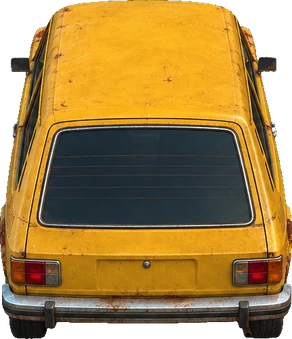
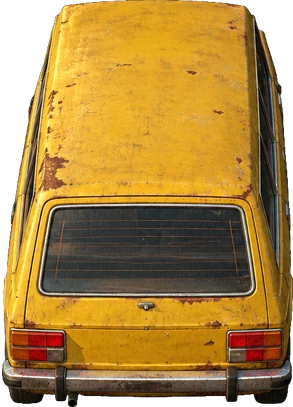
Carros redesenhados no ângulo do jogo
Fusca, Brasília e Uno da avenida ganham frente e traseira novas, em
projeção paralela, com o teto subindo junto da faixa inclinada (antes
eram vistas chapadas e pareciam andar de lado). Fusca, Brasília, Uno e
táxi parados nas ruas transversais ganham perfil novo com o teto à
mostra e a traseira na ponta da direita; ficam todos virados para a
esquerda, como numa rua de mão única.

Claude-Session: https://claude.ai/code/session_01V3nfXgj3At2PPcBsXwjYXU

diff --git a/prototype/src/arte_cenario.js b/prototype/src/arte_cenario.js
@@ -7,9 +7,11 @@ export const ART_K = Math.sin((55 * Math.PI) / 180);
 
 // w, d, h: largura, fundo e altura (m). padX: folga dos lados; top: quanto o quadro sobe acima da origem;
 // bot: quanto desce abaixo dela (sombra). files: variações (arquivo <tipo>_<variação>.webp).
-// espelha: metade dos objetos aparece virada para o outro lado (carro estacionado nos dois sentidos).
+// espelha: metade dos objetos aparece virada para o outro lado.
 export const ART = {
-  carro: { w: 4.0, d: 1.8, h: 1.45, padX: 0.7, top: 3.2, bot: 0.45, files: ['fusca', 'brasilia', 'uno', 'taxi'], espelha: true },
+  // carros parados nas ruas transversais: todos virados para a esquerda (rua de mão única), desenhados no
+  // ângulo do jogo, com a traseira aparecendo na ponta da direita
+  carro: { w: 4.0, d: 1.8, h: 1.45, padX: 0.7, top: 3.2, bot: 0.45, files: ['fusca', 'brasilia', 'uno', 'taxi'] },
   onibus: { w: 8.8, d: 2.5, h: 3.0, padX: 0.6, top: 5.4, bot: 0.5, files: ['a'], espelha: true },
   banca: { w: 2.4, d: 1.6, h: 2.3, padX: 0.5, top: 3.9, bot: 0.4, files: ['a'] },
   milho: { w: 1.4, d: 0.8, h: 1.1, padX: 0.8, top: 2.9, bot: 0.35, files: ['a'], espelha: true },

diff --git a/docs/DECISOES.md b/docs/DECISOES.md
@@ -35,7 +35,7 @@ Continua o registro do pacote de conceito (`docs/concept-v0.1/06_Decisoes_e_Ques
 | D29 | 07/11/2026 | Arte do cenário | Os objetos desenhados em código ficaram amadores (avaliação do autor) e saíram do jogo; no lugar ficam blocos simples até a arte chegar. A arte do cenário passa a ser gerada por IA de imagem no Figma pessoal do autor e recortada para o jogo. Teste: um fusca azul velho, gerado sem emblema (o da calota foi apagado no recorte), a pedido do autor; depois o fusca em 8 direções, uma Brasília amarela e um Uno branco com escada no teto, todos sem emblema e sorteados nas vagas, virados para os dois lados. Os formatos são reconhecíveis como os de modelos reais: revisar antes da loja, como em D17 | Teste aprovado para seguir pedido a pedido; cada imagem gasta créditos de IA do Figma |
 | D30 | 07/11/2026 | Organização da Orla | Pedido do autor, seguindo Copacabana: da esquerda para o mar, prédios, calçadão, avenida, ciclovia, areia e mar. A avenida corre ao longo da praia com quatro faixas e carros andando nos dois sentidos, que atropelam o Juninho e a horda (`AVENIDA` em config.js), com aviso para carro vindo por trás. As ruas transversais terminam na avenida. Os prédios entram depois, na borda esquerda. Bot com a avenida: 33% a 40% de vitórias, igual a antes | Feito no protótipo |
 | D31 | 07/11/2026 | Visual do mapa | O mapa parecia reto perto dos objetos com volume. Entre girar o mapa 45° (isométrico de verdade, refazendo a arte) e manter o mapa reto com profundidade no chão, o autor escolheu a segunda: sombras longas de fim de tarde, meio-fio com altura, escurecido na base, névoa no alto da tela (`SOMBRA`) | Feito no protótipo; o isométrico de verdade fica como opção |
-| D32 | 07/11/2026 | Giro do mapa | Pedido do autor: girar o mapa um pouco, sem chegar a 45°. O eixo da profundidade inclina 18° (projeção oblíqua: o calçadão, a avenida e a praia correm na diagonal, as ruas transversais continuam retas e o que está em pé continua em pé, sem refazer a arte). Começou em 10°; subiu para 18° porque é o ângulo em que a fachada das lojas dos prédios foi desenhada, e os prédios não encaixavam na rua (autor, 07/11). Os prédios foram desenhados de novo no Figma já nesse ângulo (projeção paralela: frente reta para a rua transversal, lateral das lojas quase em pé, junto da beira do calçadão) e entram inteiros, só na escala, sem estreitar nem entortar a imagem; casam com a câmera padrão de 55°. Ajuste "Giro do mapa" de 0 a 25° para testar | Feito no protótipo |
+| D32 | 07/11/2026 | Giro do mapa | Pedido do autor: girar o mapa um pouco, sem chegar a 45°. O eixo da profundidade inclina 18° (projeção oblíqua: o calçadão, a avenida e a praia correm na diagonal, as ruas transversais continuam retas e o que está em pé continua em pé, sem refazer a arte). Começou em 10°; subiu para 18° porque é o ângulo em que a fachada das lojas dos prédios foi desenhada, e os prédios não encaixavam na rua (autor, 07/11). Os prédios foram desenhados de novo no Figma já nesse ângulo (projeção paralela: frente reta para a rua transversal, lateral das lojas quase em pé, junto da beira do calçadão) e entram inteiros, só na escala, sem estreitar nem entortar a imagem; casam com a câmera padrão de 55°. Os carros também foram redesenhados nesse ângulo: os da avenida de frente e de traseira com o teto subindo junto da faixa; os parados nas ruas transversais de lado, todos virados para a esquerda (rua de mão única), com a traseira aparecendo na ponta da direita. Ajuste "Giro do mapa" de 0 a 25° para testar | Feito no protótipo |
 
 ## Pendentes
 
